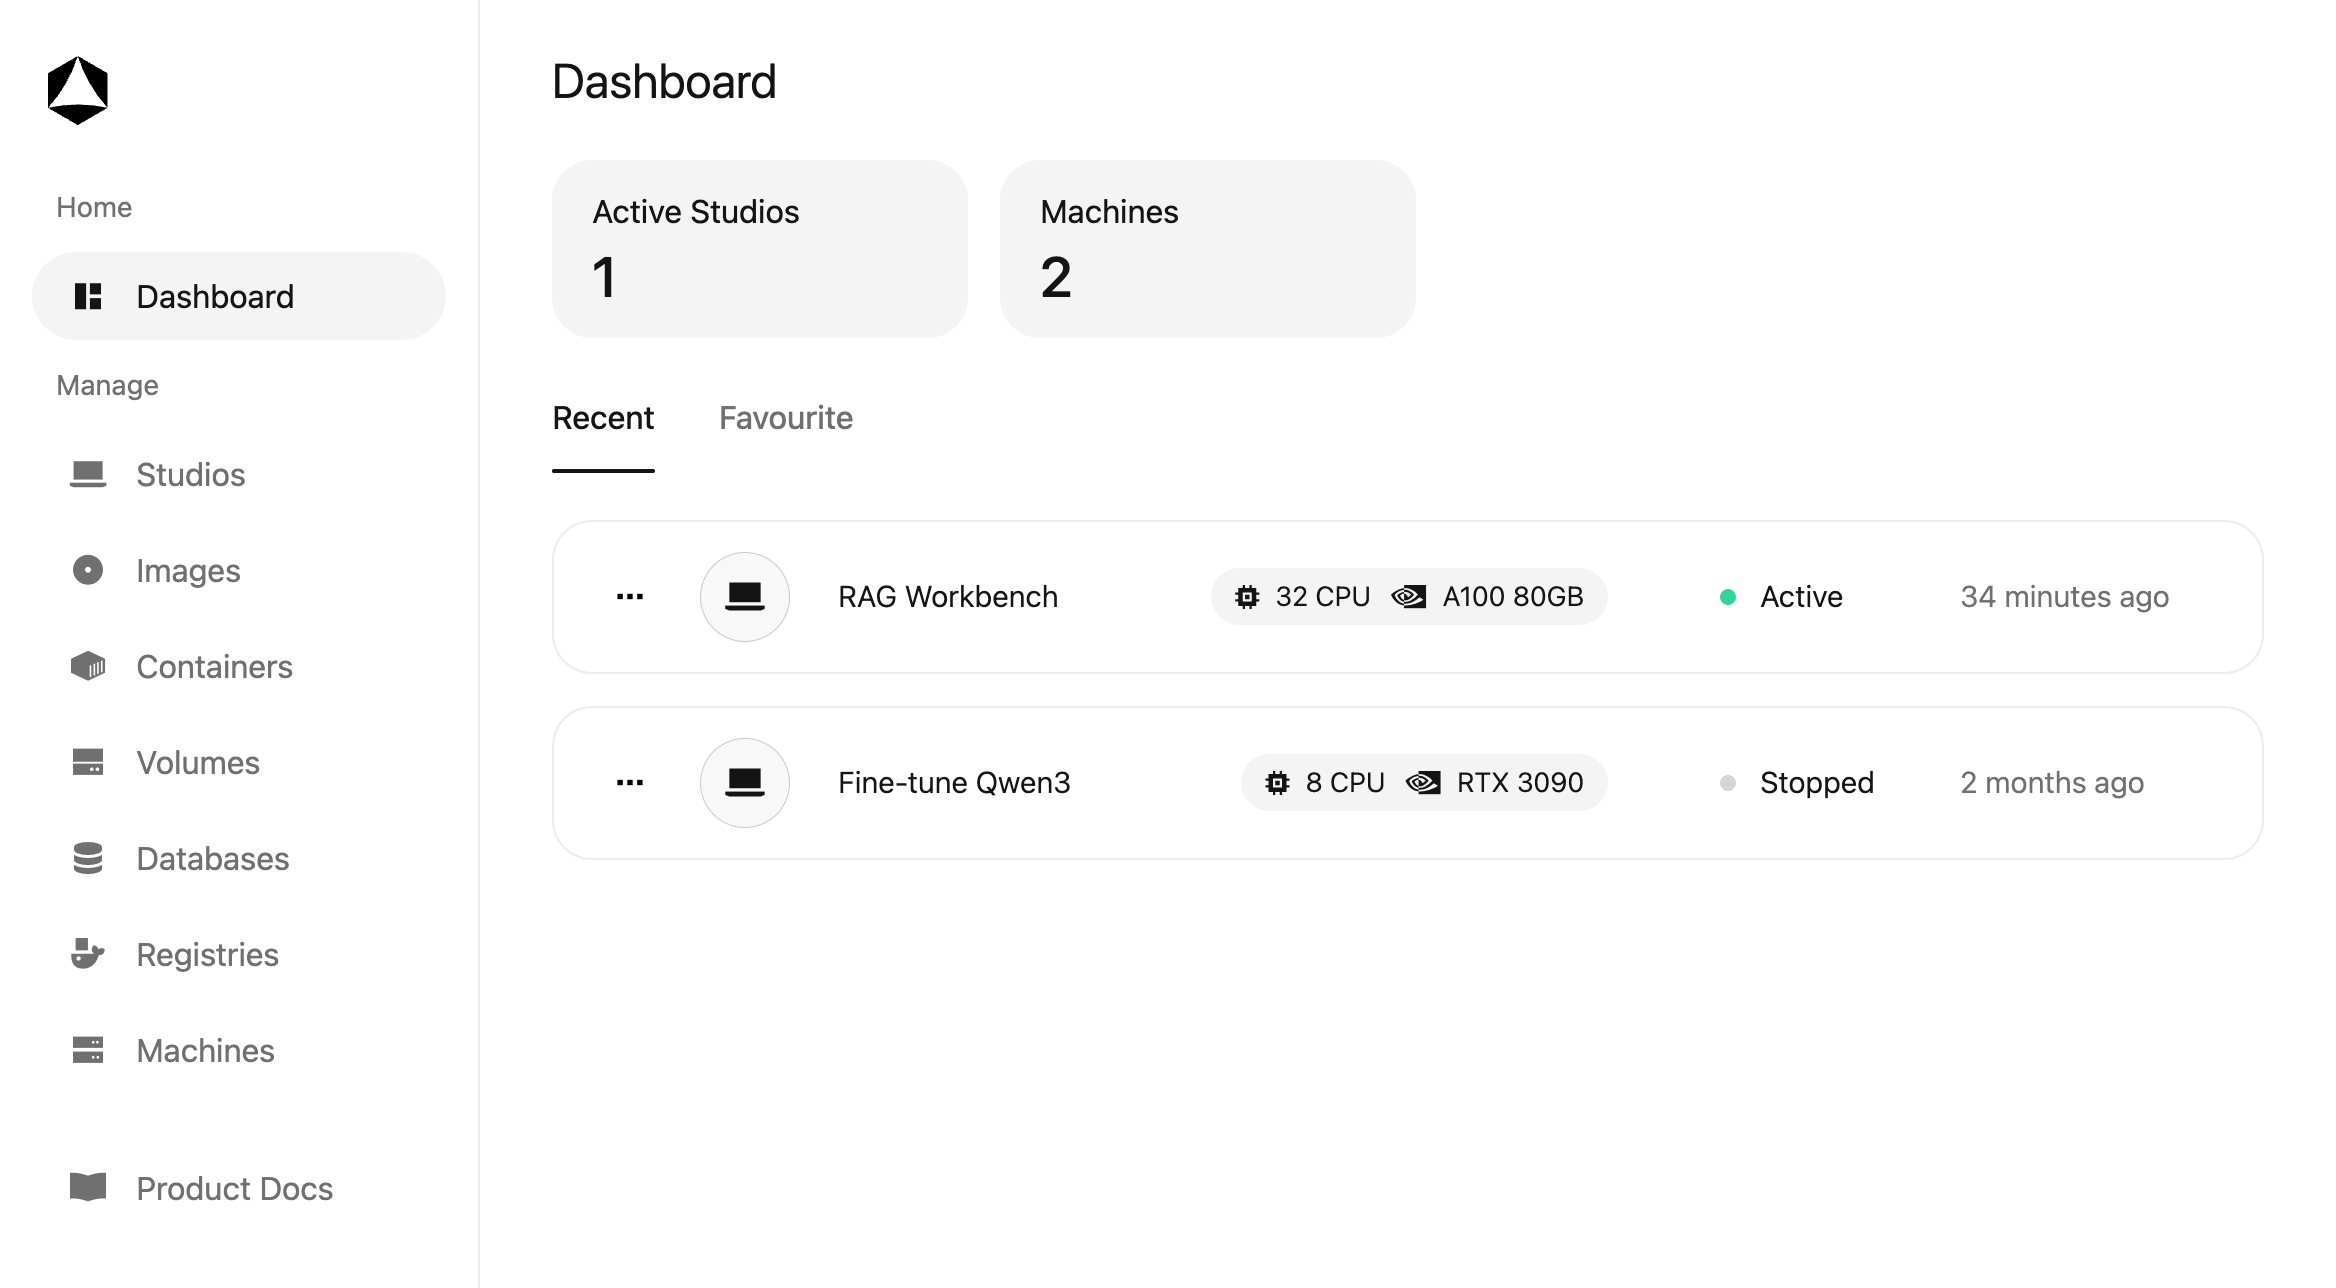
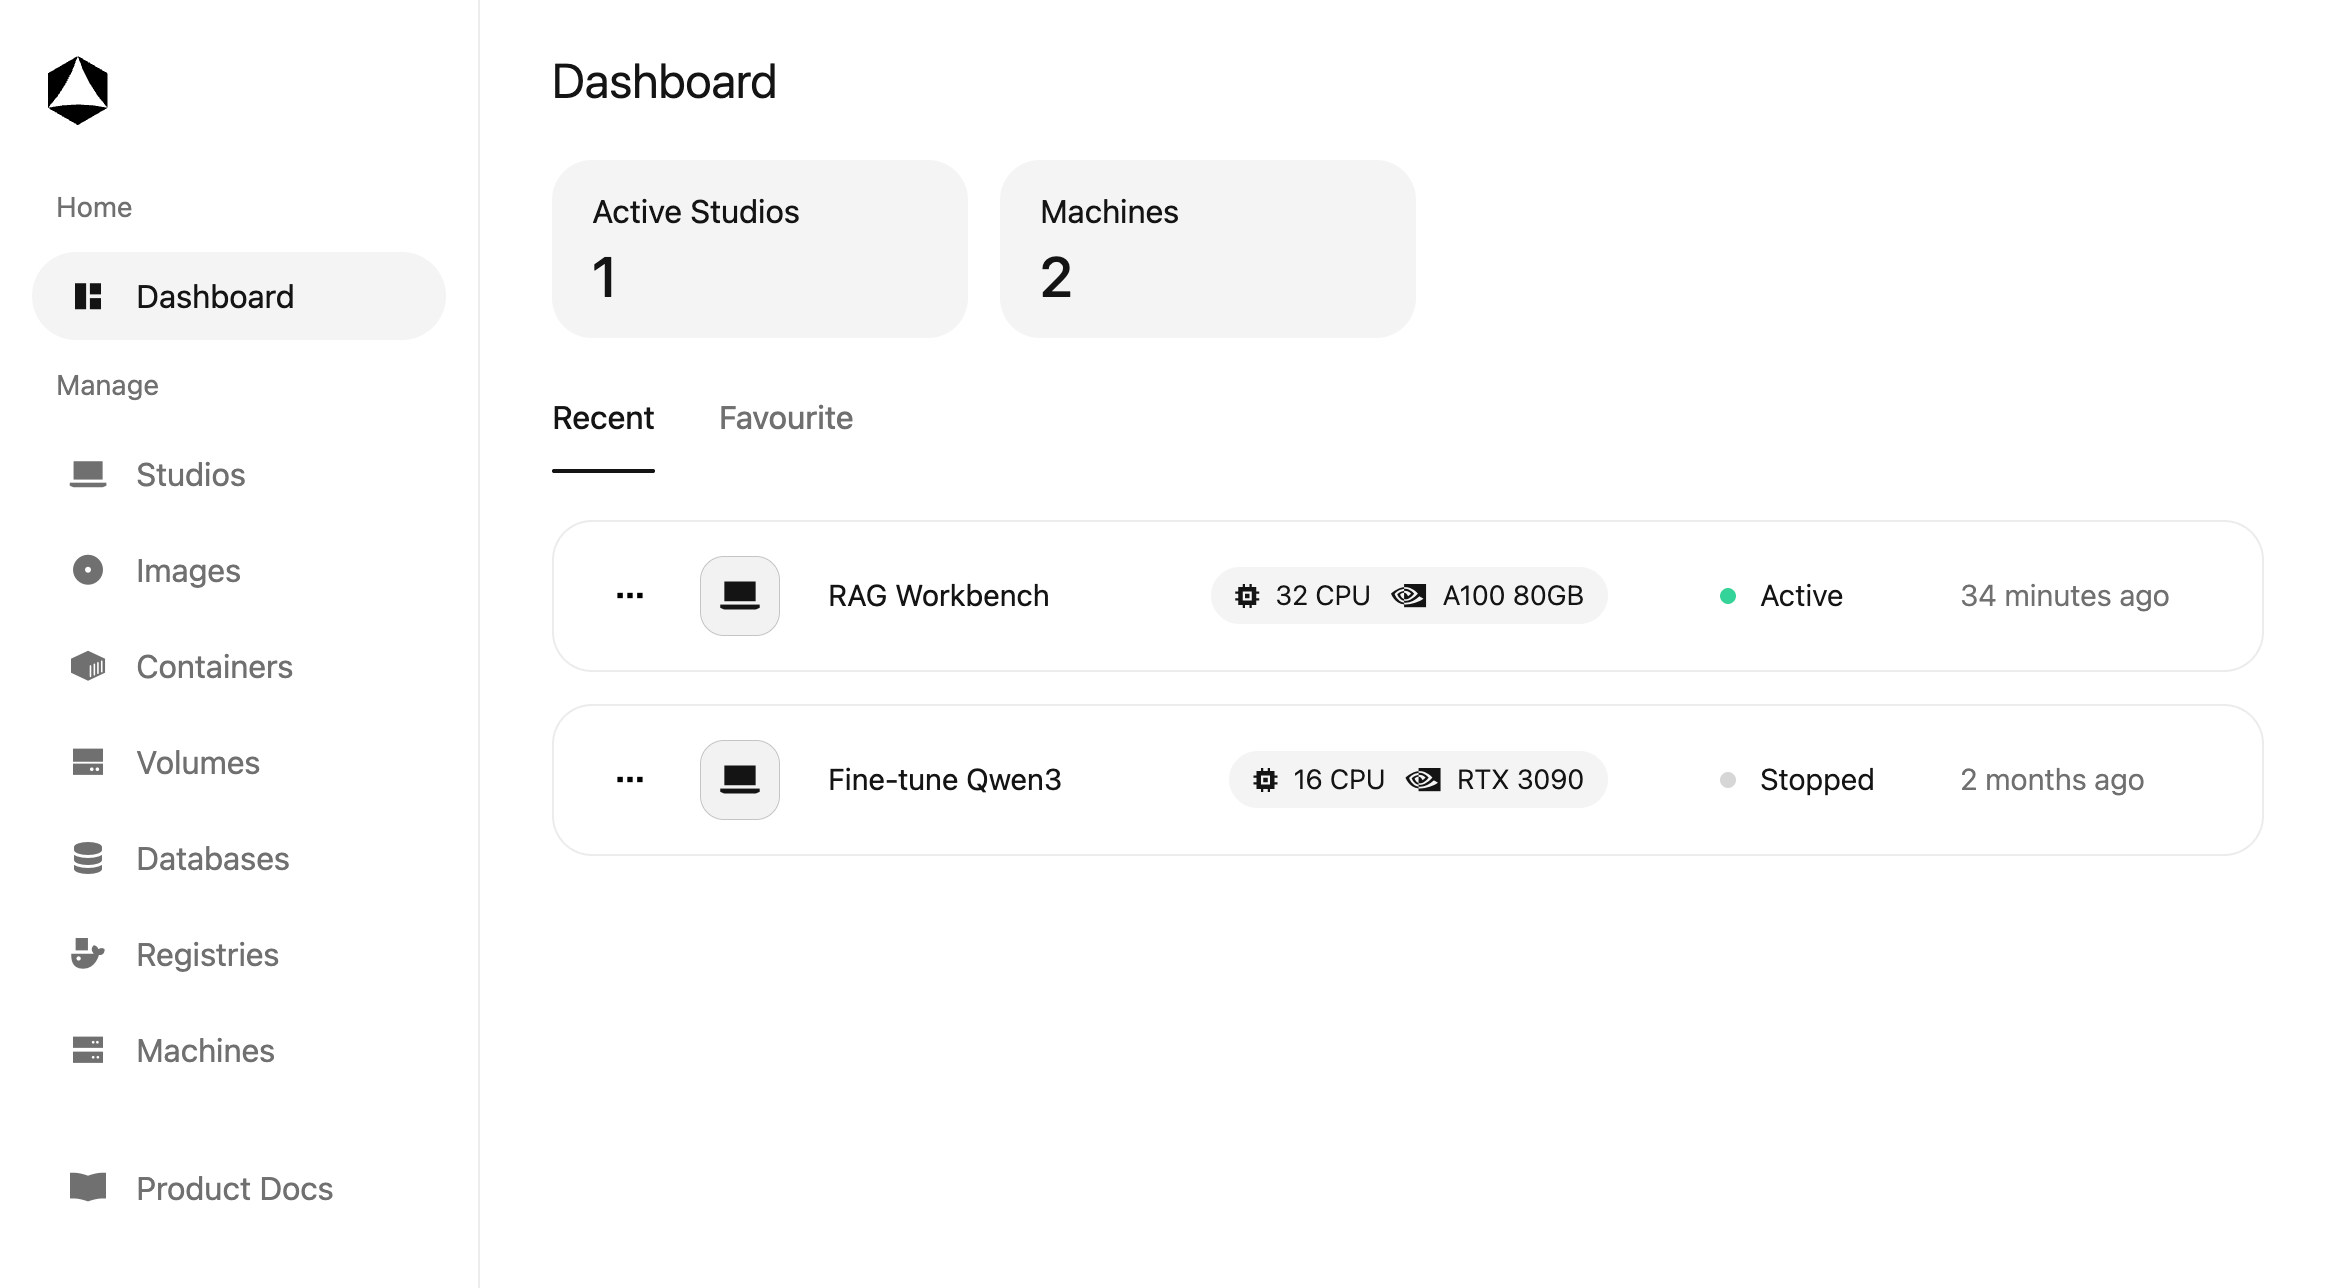
Update design

diff --git a/data/styles/pages/_index.scss b/data/styles/pages/_index.scss
@@ -127,7 +127,7 @@
                         column-gap: 1.5rem;
                         text-decoration: none;
                         border-radius: 1.25rem;
-                        padding: 1rem 2.5rem 1rem 1.5rem;
+                        padding: 1.125rem 2.5rem 1.125rem 1.5rem;
                         box-shadow: rgba(64, 64, 64, 0.1) 0px 0px 0px 1px inset;
 
                         transition: all 0.15s cubic-bezier(0,0,.2,1);
@@ -143,22 +143,22 @@
                         }
 
                         .item__icon {
-                            width: 45px;
-                            height: 45px;
                             display: flex;
+                            width: 2.5rem;
+                            height: 2.5rem;
                             flex-shrink: 0;
-                            font-size: 0.875rem;
-                            background: rgba(64, 64, 64, 0.04);
+                            background: rgba(64, 64, 64, 0.07);
                             outline: 0.5px solid rgba(13, 13, 13, 0.2);
                             outline-offset: -0.5px;
-                            border-radius: 50%;
+                            border-radius: 0.75rem;
                             align-items: center;
-                            justify-content: center;            
+                            justify-content: center;        
                         }
 
                         .item__name {
-                            flex-grow: 1;
                             width: 11rem;
+                            flex-grow: 1;
+                            font-weight: 400;
                         }
                         
                         .item__config {

diff --git a/data/styles/layout/_header.scss b/data/styles/layout/_header.scss
@@ -42,6 +42,7 @@
             width: 2.5rem;
             height: 2.5rem;
             overflow: hidden;
+            font-size: 1.25rem;
             border-radius: 0.75rem;
             background: rgba(64, 64, 64, 0.07);
             cursor: pointer;
@@ -59,11 +60,15 @@
         justify-self: end;
 
         .right__button {
-            width: 2.5rem;
+            cursor: pointer;
+            font-weight: 400;
+            font-size: 1rem;
             height: 2.5rem;
-            overflow: hidden;
+            padding: 0 1.25rem;
             border-radius: 0.75rem;
-            background: rgba(64, 64, 64, 0.07);
+            box-shadow: rgba(64, 64, 64, 0.16) 0px 0px 0px 1px inset;
+            background: transparent;
+            border: none;
         }
     }
 }

diff --git a/data/templates/layout/header.html b/data/templates/layout/header.html
@@ -31,6 +31,13 @@
         <button class="center__item">
             <img src="/static/images/browser.svg" draggable="false" width="100%" height="100%">
         </button>
-        <button class="center__item"></button>
+        <button class="center__item">
+            <i class="fa-sharp fa-light fa-plus"></i>
+        </button>
+    </div>
+    <div class="header__right">
+        <button class="right__button">
+            Deploy
+        </button>
     </div>
 </header>

diff --git a/data/styles/pages/_studio.scss b/data/styles/pages/_studio.scss
@@ -6,5 +6,6 @@
         overflow: hidden;
         border-top-left-radius: 0.75rem;
         border-top-right-radius: 0.75rem;
+        background: rgba(64, 64, 64, 0.07);
     }
 }
